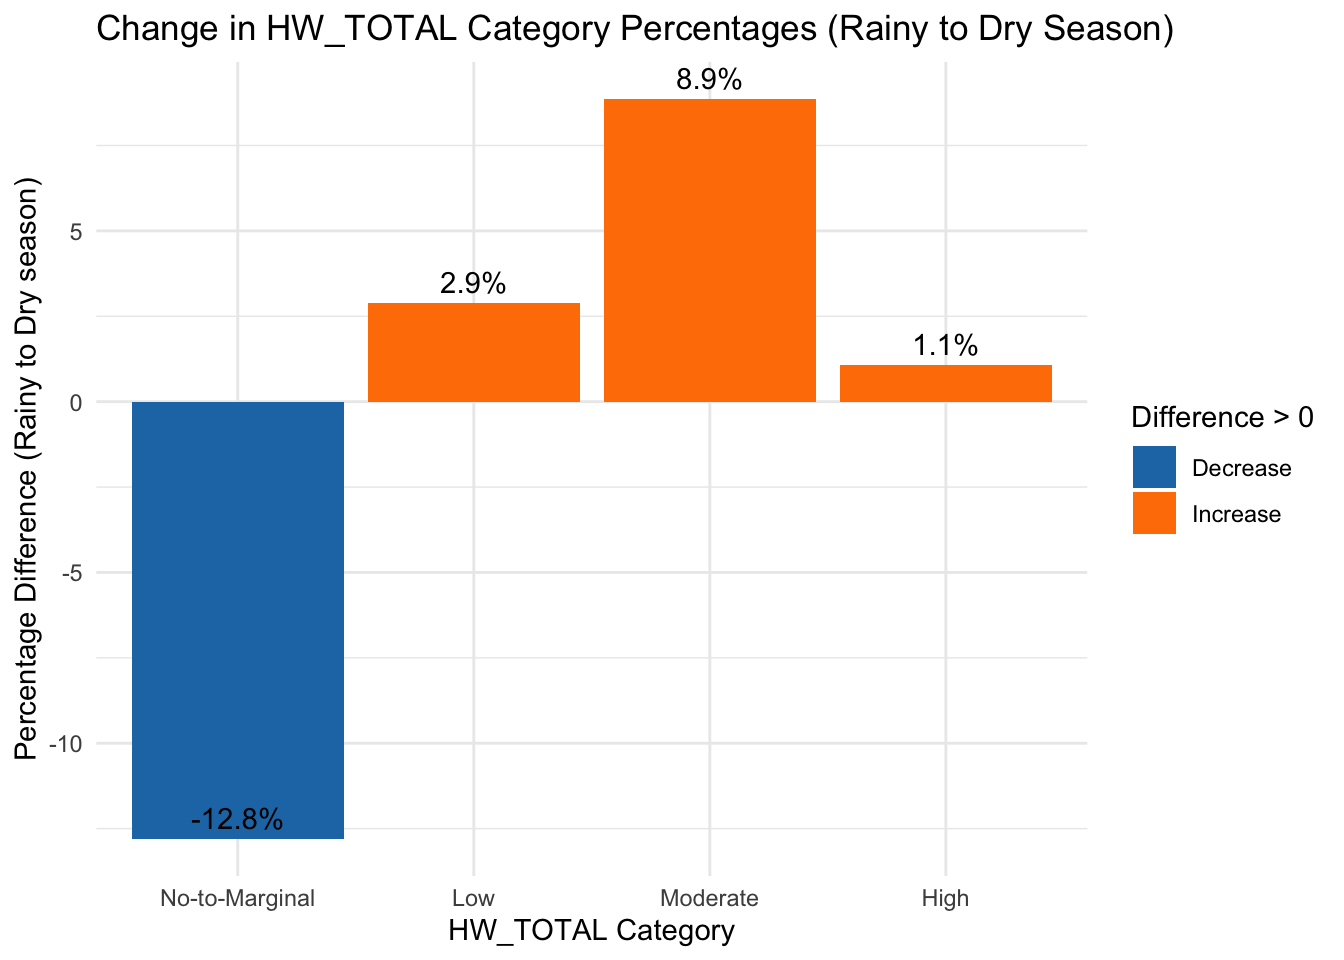
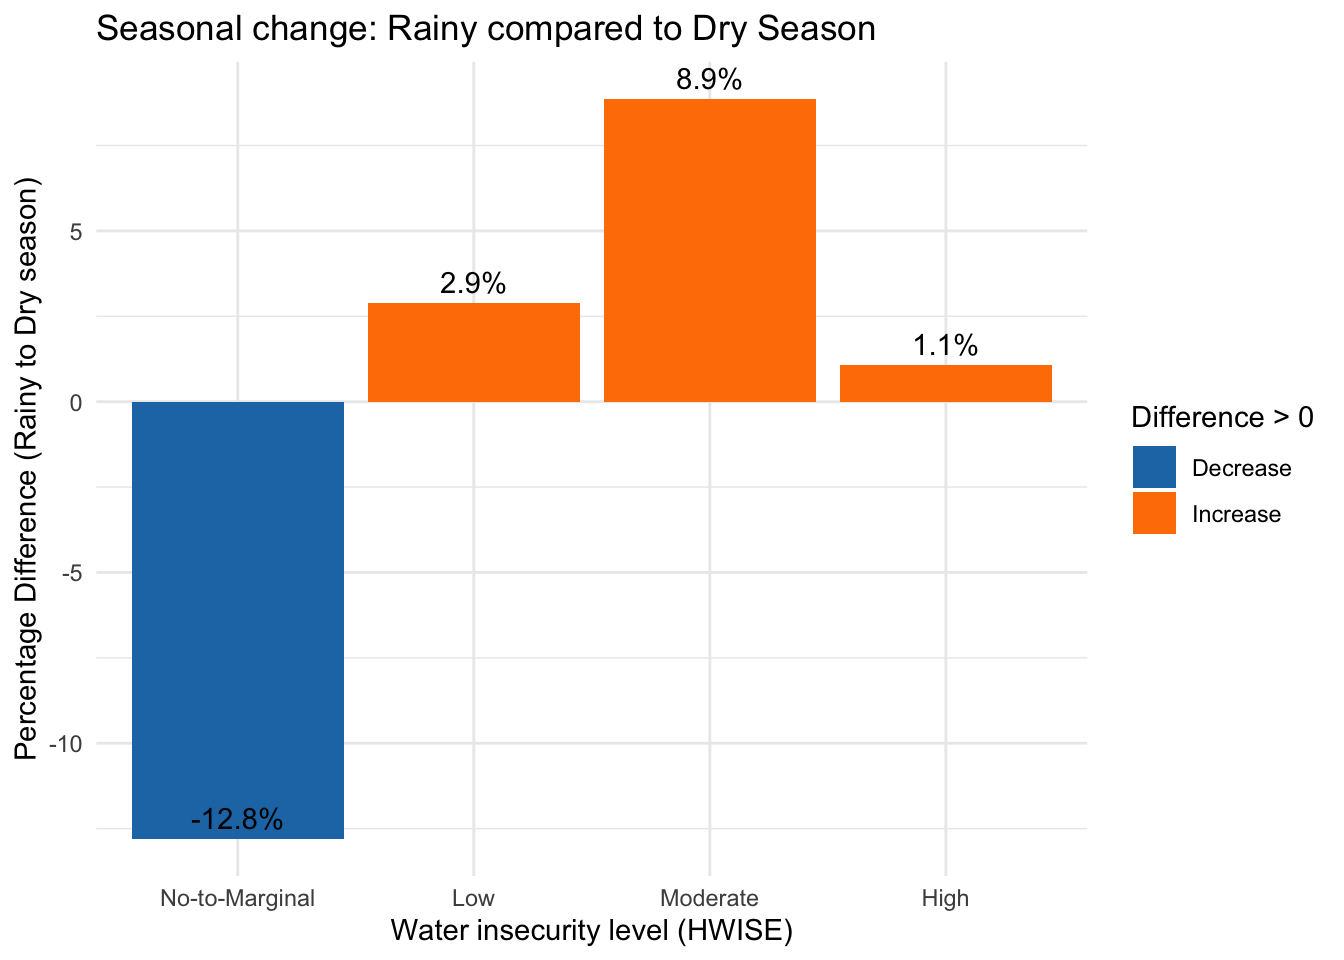
updated plots

Changed region(s): [[0.0625, 0.0, 0.875, 0.0625], [0.2812, 0.9375, 0.5938, 1.0]]

diff --git a/docs/HBA2025_Analyses.html b/docs/HBA2025_Analyses.html
@@ -516,15 +516,15 @@ project makes it easier to run your code on other machines.</p>
 <div class="panel panel-default">
 <div class="panel-heading">
 <p class="panel-title">
-<a data-toggle="collapse" data-parent="#workflowr-checks" href="#strongRepositoryversionstrongahrefhttpsgithubcomlasisilabQUAILMextree7866aba09a227328475597669733f7d20b457d15targetblank7866abaa">
+<a data-toggle="collapse" data-parent="#workflowr-checks" href="#strongRepositoryversionstrongahrefhttpsgithubcomlasisilabQUAILMextree77cc174bcb1521cfc4ff6c1e126b7b7f7bc83503targetblank77cc174a">
 <span class="glyphicon glyphicon-ok text-success"
 aria-hidden="true"></span> <strong>Repository version:</strong>
-<a href="https://github.com/lasisilab/QUAIL-Mex/tree/7866aba09a227328475597669733f7d20b457d15" target="_blank">7866aba</a>
+<a href="https://github.com/lasisilab/QUAIL-Mex/tree/77cc174bcb1521cfc4ff6c1e126b7b7f7bc83503" target="_blank">77cc174</a>
 </a>
 </p>
 </div>
 <div
[2 lines of base64/hex data omitted]
 class="panel-collapse collapse">
 <div class="panel-body">
 <p>
@@ -534,7 +534,7 @@ reproducibility.
 </p>
 <p>
 The results in this page were generated with repository version
-<a href="https://github.com/lasisilab/QUAIL-Mex/tree/7866aba09a227328475597669733f7d20b457d15" target="_blank">7866aba</a>.
+<a href="https://github.com/lasisilab/QUAIL-Mex/tree/77cc174bcb1521cfc4ff6c1e126b7b7f7bc83503" target="_blank">77cc174</a>.
 See the <em>Past versions</em> tab to see a history of the changes made
 to the R Markdown and HTML files.
 </p>
@@ -562,8 +562,6 @@ Ignored files:
 
 Unstaged changes:
     Modified:   analysis/HBA2025_Analyses.Rmd
-    Modified:   analysis/HBA2025_cleaning.Rmd
-    Modified:   data/Cleaned_Dataset_Screening_HWISE_PSS_V3.csv
 
 </code></pre>
 <p>
@@ -608,6 +606,40 @@ Message
 </tr>
 </thead>
 <tbody>
+<tr>
+<td>
+Rmd
+</td>
+<td>
+<a href="https://github.com/lasisilab/QUAIL-Mex/blob/77cc174bcb1521cfc4ff6c1e126b7b7f7bc83503/analysis/HBA2025_Analyses.Rmd" target="_blank">77cc174</a>
+</td>
+<td>
+Paloma
+</td>
+<td>
+2025-03-08
+</td>
+<td>
+more plots
+</td>
+</tr>
+<tr>
+<td>
+html
+</td>
+<td>
+<a href="https://rawcdn.githack.com/lasisilab/QUAIL-Mex/77cc174bcb1521cfc4ff6c1e126b7b7f7bc83503/docs/HBA2025_Analyses.html" target="_blank">77cc174</a>
+</td>
+<td>
+Paloma
+</td>
+<td>
+2025-03-08
+</td>
+<td>
+more plots
+</td>
+</tr>
 <tr>
 <td>
 Rmd
@@ -734,6 +766,7 @@ summary(data$HW_TOTAL)</code></pre>
 <pre><code>   Min. 1st Qu.  Median    Mean 3rd Qu.    Max.    NA&#39;s 
   0.000   3.000   8.000   8.419  12.000  27.000      11 </code></pre>
 <pre class="r"><code># Check the new variable distribution
+temp &lt;- table(data$HW_TOTAL_category)
 table(data$HW_TOTAL_category)</code></pre>
 <pre><code>
 No-to-Marginal            Low       Moderate           High 
@@ -873,8 +906,8 @@ hw_diff &lt;- hw_season_counts %&gt;%
 ggplot(hw_diff, aes(x = HW_TOTAL_category, y = Difference, fill = Difference &gt; 0)) +
   geom_bar(stat = &quot;identity&quot;) +  # Use precomputed differences
   theme_minimal() +
-  labs(title = &quot;Change in HW_TOTAL Category Percentages (Rainy to Dry Season)&quot;,
-       x = &quot;HW_TOTAL Category&quot;, 
+  labs(title = &quot;Seasonal change: Rainy compared to Dry Season&quot;,
+       x = &quot;Water insecurity level (HWISE)&quot;, 
        y = &quot;Percentage Difference (Rainy to Dry season)&quot;) +
   scale_fill_manual(values = c(&quot;#1f78b4&quot;, &quot;#ff7f00&quot;), labels = c(&quot;Decrease&quot;, &quot;Increase&quot;)) +  # Assign colors
   theme(legend.position = &quot;right&quot;) +  # Keep legend
@@ -949,7 +982,7 @@ data &lt;- data %&gt;%
 data$HW_TOTAL_category &lt;- factor(data$HW_TOTAL_category, 
                                  levels = c(&quot;No-to-Marginal&quot;, &quot;Low&quot;, &quot;Moderate&quot;, &quot;High&quot;))
 
-# Count the number of data points per HW_TOTAL category
+# Count the number of data points per Water insecurity level (HWISE)
  summary_stats &lt;- data %&gt;%
   group_by(HW_TOTAL_category) %&gt;%
   summarise(Count = n(), SD = sd(HRS_WEEK, na.rm = TRUE), .groups = &#39;drop&#39;)
@@ -981,8 +1014,8 @@ ggplot(data, aes(x = HW_TOTAL_category,
              aes(label = hrs.w, y = hrs.w + 1, hjust=-1), 
              size = 3, color = &quot;darkred&quot;) + #adds average labels
   theme_minimal() +
-  labs(title = &quot;HRS_WEEK by HWISE Category&quot;,
-       x = &quot;HWISE&quot;, 
+  labs(title = &quot;Hours water of supply by Water Insecurity group (HWISE)&quot;,
+       x = &quot;HWISE Group&quot;, 
        y = &quot;Hours of Water Supply per Week&quot;) +
   scale_fill_manual(values = color_palette) +  # Custom colors for boxes
   scale_color_manual(values = color_palette) +  # Custom colors for points +
@@ -1031,6 +1064,17 @@ Date
 <tbody>
 <tr>
 <td>
+<a href="https://github.com/lasisilab/QUAIL-Mex/blob/77cc174bcb1521cfc4ff6c1e126b7b7f7bc83503/docs/figure/HBA2025_Analyses.Rmd/unnamed-chunk-4-1.png" target="_blank">77cc174</a>
+</td>
+<td>
+Paloma
+</td>
+<td>
+2025-03-08
+</td>
+</tr>
+<tr>
+<td>
 <a href="https://github.com/lasisilab/QUAIL-Mex/blob/7866aba09a227328475597669733f7d20b457d15/docs/figure/HBA2025_Analyses.Rmd/unnamed-chunk-4-1.png" target="_blank">7866aba</a>
 </td>
 <td>
@@ -1068,7 +1112,7 @@ data &lt;- data %&gt;%
 data$MX28_WQ_COMP_category &lt;- factor(data$MX28_WQ_COMP_category, 
                                  levels = c(&quot;Worse&quot;, &quot;Same&quot;, &quot;Better&quot;))
 
-# Count the number of data points per HW_TOTAL category
+# Count the number of data points per Water insecurity level (HWISE)
  summary_stats &lt;- data %&gt;%
   group_by(MX28_WQ_COMP_category) %&gt;%
   summarise(Count = n(), SD = sd(HRS_WEEK, na.rm = TRUE), .groups = &#39;drop&#39;)
@@ -1093,8 +1137,8 @@ ggplot(data, aes(x = MX28_WQ_COMP_category,
              aes(label = hrs.w, y = hrs.w + 1, hjust=-0.8), 
              size = 3, color = &quot;darkred&quot;) + #adds average labels
   theme_minimal() +
-  labs(title = &quot;HRS_WEEK by Group considering their water supply as worse, same or better than in other parts of the city&quot;,
-       x = &quot;&quot;, 
+  labs(title = &quot;Hours of water supply and comparison to other parts of the city&quot;,
+       x = &quot;Own water service is considered&quot;, 
        y = &quot;Hours of Water Supply per Week&quot;) +
   scale_fill_manual(values = color_palette) +  # Custom colors for boxes
   scale_color_manual(values = color_palette) +  # Custom colors for points +
@@ -1137,6 +1181,17 @@ Date
 <tbody>
 <tr>
 <td>
+<a href="https://github.com/lasisilab/QUAIL-Mex/blob/77cc174bcb1521cfc4ff6c1e126b7b7f7bc83503/docs/figure/HBA2025_Analyses.Rmd/unnamed-chunk-5-1.png" target="_blank">77cc174</a>
+</td>
+<td>
+Paloma
+</td>
+<td>
+2025-03-08
+</td>
+</tr>
+<tr>
+<td>
 <a href="https://github.com/lasisilab/QUAIL-Mex/blob/7866aba09a227328475597669733f7d20b457d15/docs/figure/HBA2025_Analyses.Rmd/unnamed-chunk-5-1.png" target="_blank">7866aba</a>
 </td>
 <td>
@@ -1161,7 +1216,7 @@ Paloma
 </table>
 </div>
 </div>
-<pre class="r"><code># Count the number of data points per HW_TOTAL category
+<pre class="r"><code># Count the number of data points per Water insecurity level (HWISE)
  summary_stats &lt;- data %&gt;%
   group_by(MX28_WQ_COMP_category) %&gt;%
   summarise(Count = n(), SD = sd(HW_TOTAL, na.rm = TRUE), .groups = &#39;drop&#39;)
@@ -1191,8 +1246,8 @@ ggplot(data, aes(x = MX28_WQ_COMP_category,
                   label = paste0(&quot;SD = &quot;, round(SD, 1))), 
               size = 4, fontface = &quot;bold&quot;) +    # Add SD text annotations above the boxes
   theme_minimal() +
-  labs(title = &quot;HWISE score by Group considering their water supply as worse, same or better than in other parts of the city&quot;,
-       x = &quot;&quot;, 
+  labs(title =  &quot;Hours of water supply and comparison to other parts of the city&quot;,
+       x = &quot;Own water service is considered&quot;, 
        y = &quot;HWISE score&quot;) +
   scale_fill_manual(values = color_palette) +  # Custom colors for boxes
   scale_color_manual(values = color_palette) +  # Custom colors for points +
@@ -1225,6 +1280,17 @@ Date
 </tr>
 </thead>
 <tbody>
+<tr>
+<td>
+<a href="https://github.com/lasisilab/QUAIL-Mex/blob/77cc174bcb1521cfc4ff6c1e126b7b7f7bc83503/docs/figure/HBA2025_Analyses.Rmd/unnamed-chunk-6-1.png" target="_blank">77cc174</a>
+</td>
+<td>
+Paloma
+</td>
+<td>
+2025-03-08
+</td>
+</tr>
 <tr>
 <td>
 <a href="https://github.com/lasisilab/QUAIL-Mex/blob/7866aba09a227328475597669733f7d20b457d15/docs/figure/HBA2025_Analyses.Rmd/unnamed-chunk-6-1.png" target="_blank">7866aba</a>
@@ -1276,7 +1342,8 @@ ggplot(data_long, aes(x = as.factor(Response), y = HRS_WEEK, fill = as.factor(Re
   geom_text(data = summary_stats, aes(x = as.factor(Response), y =  Mean_HRS_WEEK, 
              label = round(Mean_HRS_WEEK, 0)), color = &quot;black&quot;, hjust =  -0.35, size = 2.8) +  # Add numeric mean label
   theme_minimal() +
-  labs(title = &quot;Distribution of HRS_WEEK by total HWISE score&quot;,
+  labs(title = &quot;Distribution of Hours water of supply by total HWISE score&quot;,
+       subtitle = &quot;Black dots show mean num. hours per week&quot;,
        x = &quot;HWISE score&quot;, 
        y = &quot;Hours of Water Supply per Week&quot;) +
  # scale_fill_manual(values = color_palette) +  # Custom colors for boxes
@@ -1309,6 +1376,17 @@ Date
 <tbody>
 <tr>
 <td>
+<a href="https://github.com/lasisilab/QUAIL-Mex/blob/77cc174bcb1521cfc4ff6c1e126b7b7f7bc83503/docs/figure/HBA2025_Analyses.Rmd/unnamed-chunk-7-1.png" target="_blank">77cc174</a>
+</td>
+<td>
+Paloma
+</td>
+<td>
+2025-03-08
+</td>
+</tr>
+<tr>
+<td>
 <a href="https://github.com/lasisilab/QUAIL-Mex/blob/3704a5a65b3afbf00bebecf3fa1751049806cba5/docs/figure/HBA2025_Analyses.Rmd/unnamed-chunk-7-1.png" target="_blank">3704a5a</a>
 </td>
 <td>
@@ -1330,8 +1408,8 @@ ggplot(data_long, aes(x = as.factor(Response), y = HRS_WEEK, fill = as.factor(Re
   geom_boxplot(outlier.shape = NA, width = 0.5, alpha = 0.7) +  # Thinner boxes
   geom_jitter(aes(color = as.factor(Response)), size = 1.5, width = 0.2, alpha = 0.5) +  
   theme_minimal() +
-  labs(title = &quot;Distribution of HRS_WEEK by HW_ Questions&quot;,
-       x = &quot;Response&quot;, 
+  labs(title = &quot;Distribution of Hours water of supply by total HWISE score&quot;,
+       x = &quot;Score&quot;, 
        y = &quot;Hours of Water Supply per Week&quot;) +
 #  scale_fill_manual(values = color_palette) +  # Custom colors for boxes
 #  scale_color_manual(values = color_palette) +  # Custom colors for points
@@ -1359,6 +1437,17 @@ Date
 </tr>
 </thead>
 <tbody>
+<tr>
+<td>
+<a href="https://github.com/lasisilab/QUAIL-Mex/blob/77cc174bcb1521cfc4ff6c1e126b7b7f7bc83503/docs/figure/HBA2025_Analyses.Rmd/unnamed-chunk-7-2.png" target="_blank">77cc174</a>
+</td>
+<td>
+Paloma
+</td>
+<td>
+2025-03-08
+</td>
+</tr>
 <tr>
 <td>
 <a href="https://github.com/lasisilab/QUAIL-Mex/blob/3704a5a65b3afbf00bebecf3fa1751049806cba5/docs/figure/HBA2025_Analyses.Rmd/unnamed-chunk-7-2.png" target="_blank">3704a5a</a>
@@ -1405,10 +1494,11 @@ ggplot(data_long, aes(x = as.factor(Response), y = HRS_WEEK, fill = as.factor(Re
  # geom_text(data = mean_values, aes(x = as.factor(Response), y = Mean_HRS_WEEK, 
             # label = round(Mean_HRS_WEEK, 1)), color = &quot;red&quot;, vjust = -0.5, size = 3.5) +  # Add numeric mean label
   theme_minimal() +
-  labs(title = &quot;Distribution of HRS_WEEK by HW_ Questions&quot;,
+  labs(title = &quot;Distribution of Hours water of supply by HWISE Question&quot;,
+       subtitle = &quot;Red dots show mean num. hours per week&quot;,
        x = &quot;Response&quot;, 
        y = &quot;Hours of Water Supply per Week&quot;) +
- # theme(legend.position = &quot;none&quot;) +  # Remove legend for clarity
+  theme(legend.position = &quot;none&quot;) +  # Remove legend for clarity
   facet_wrap(~HW_Question, scales = &quot;free_y&quot;)  # Create separate plots for each HW_ question</code></pre>
 <p><img src="figure/HBA2025_Analyses.Rmd/unnamed-chunk-8-1.png" width="672" style="display: block; margin: auto;" /></p>
 <p>
@@ -1433,6 +1523,17 @@ Date
 </tr>
 </thead>
 <tbody>
+<tr>
+<td>
+<a href="https://github.com/lasisilab/QUAIL-Mex/blob/77cc174bcb1521cfc4ff6c1e126b7b7f7bc83503/docs/figure/HBA2025_Analyses.Rmd/unnamed-chunk-8-1.png" target="_blank">77cc174</a>
+</td>
+<td>
+Paloma
+</td>
+<td>
+2025-03-08
+</td>
+</tr>
 <tr>
 <td>
 <a href="https://github.com/lasisilab/QUAIL-Mex/blob/3704a5a65b3afbf00bebecf3fa1751049806cba5/docs/figure/HBA2025_Analyses.Rmd/unnamed-chunk-8-1.png" target="_blank">3704a5a</a>
